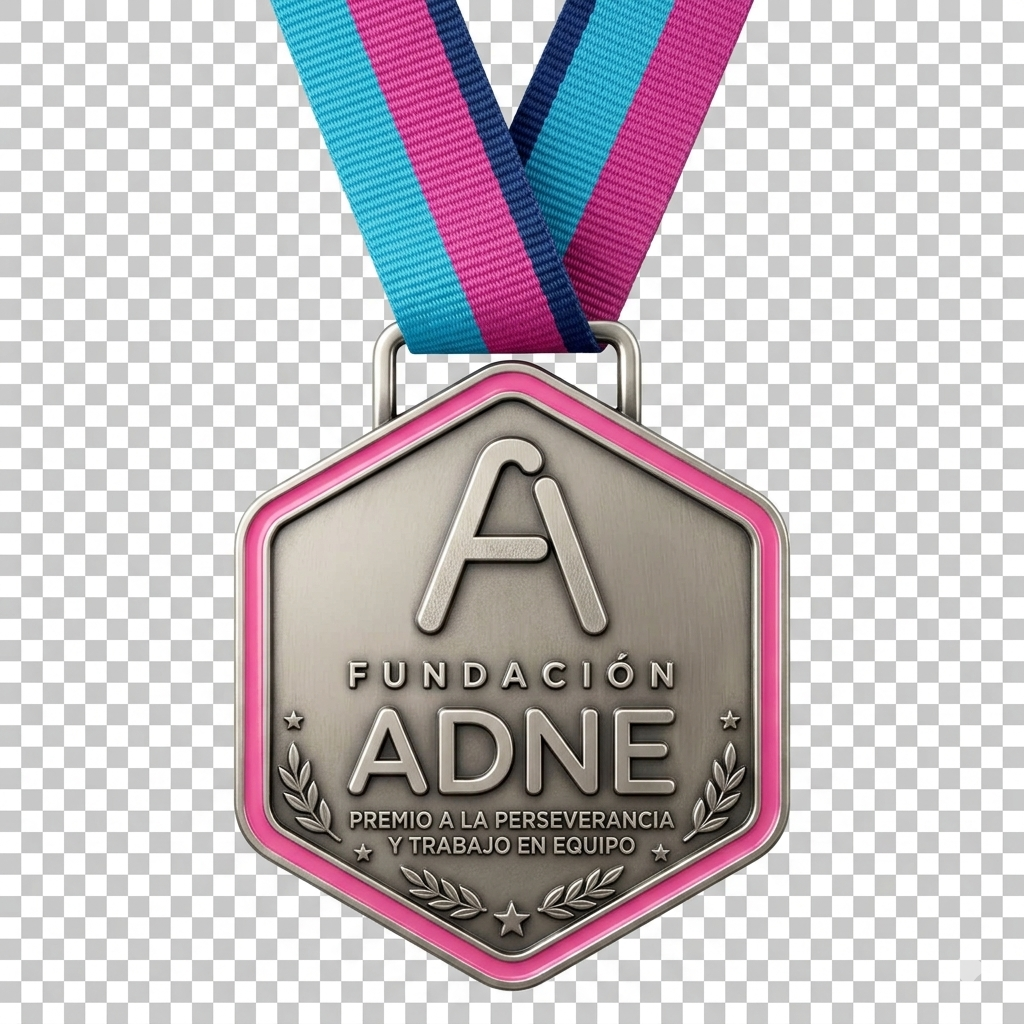
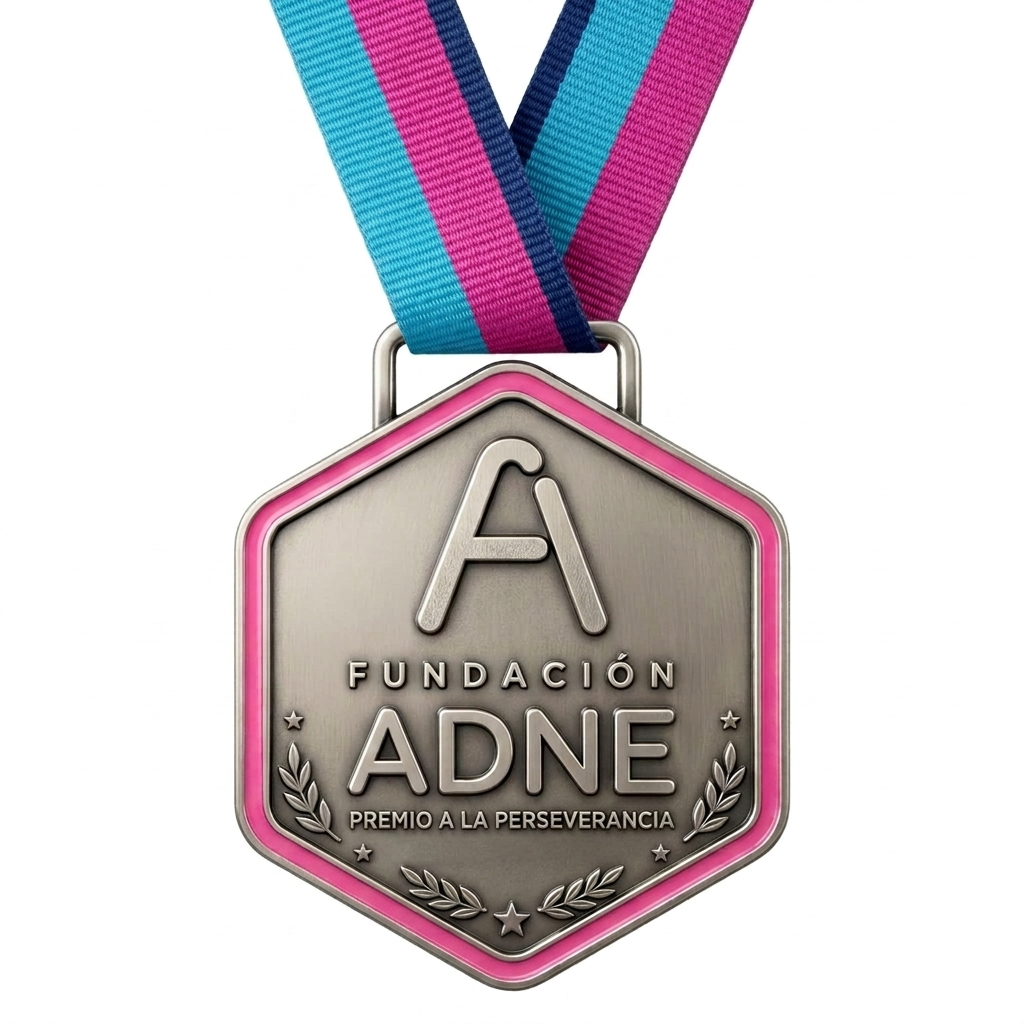
agrega imagenes testimonios

diff --git a/src/App.jsx b/src/App.jsx
@@ -47,21 +47,21 @@ const testimonials = [
     name: "María Fernanda López",
     role: "Mamá de niño de 5 años",
     date: "Vacaciones Recreativas ADNE 2022",
-    image: "/testimonio-maria.jpeg",
+    image: "/testimonio-maria.PNG",
     text: "Mi hijo no quería que se acabara el día. Llegaba feliz, cansado y contando todo lo que había vivido… y eso no tiene precio.",
   },
   {
     name: "Laura Camila Restrepo",
     role: "Mamá de niño de 7 años",
     date: "Vacaciones Recreativas ADNE 2023",
-    image: "/testimonio-laura.jpeg",
+    image: "/testimonio-laura.PNG",
     text: "Lo inscribimos porque no queríamos pausar su proceso de neurodesarrollo… y fue la mejor decisión. Siguió avanzando, pero feliz.",
   },
   {
     name: "Juan Pablo Méndez",
     role: "Papá de niño de 10 años",
     date: "Vacaciones Recreativas ADNE 2024",
-    image: "/testimonio-juan.jpeg",
+    image: "/testimonio-juan.PNG",
     text: "Pensé que sería solo recreación… pero fue mucho más. Aprendió, hizo amigos y ganó seguridad.",
   },
 ];